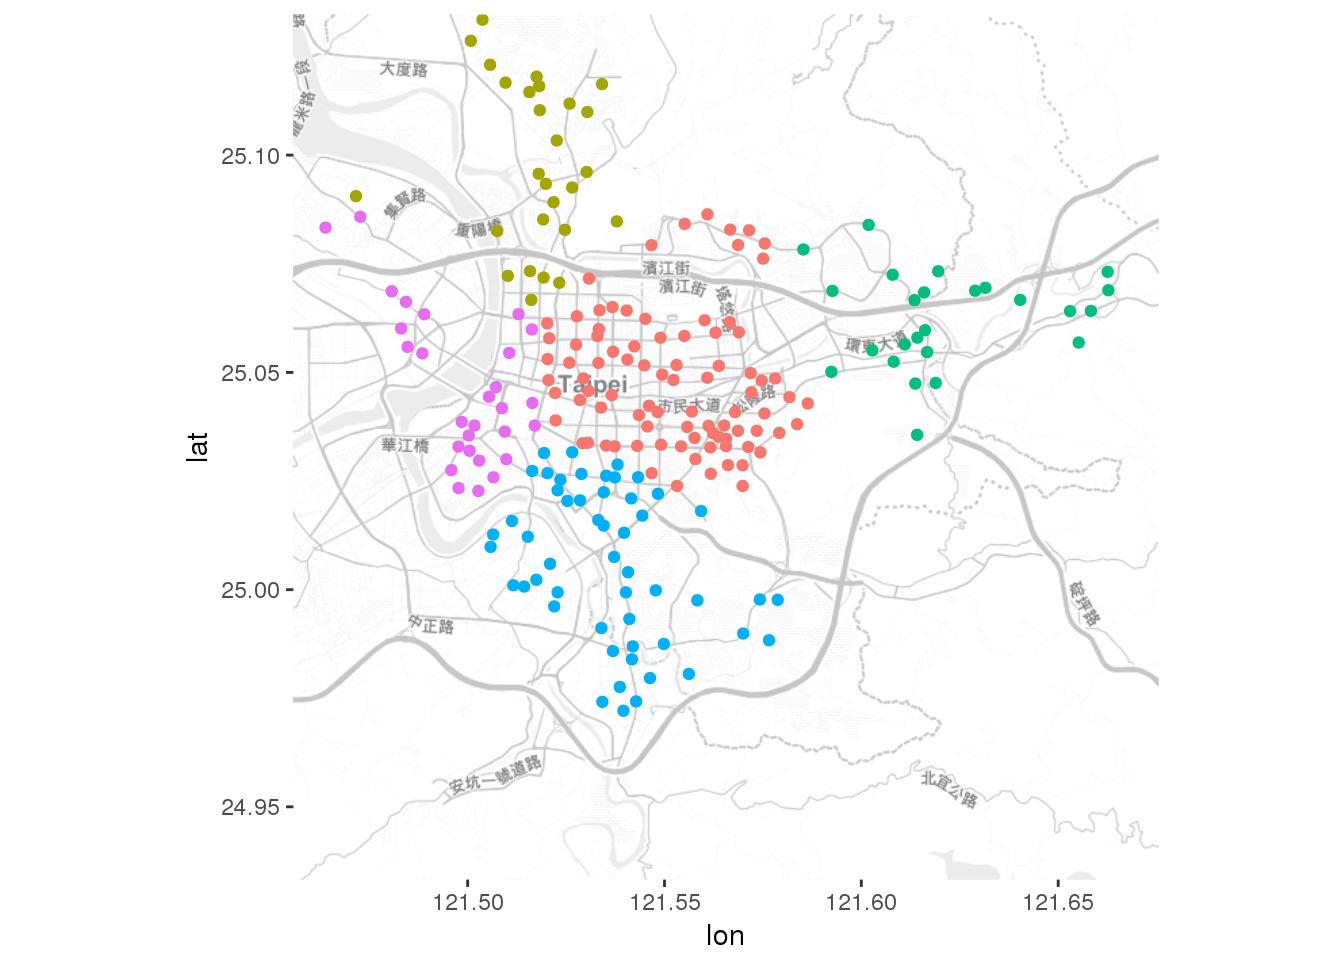
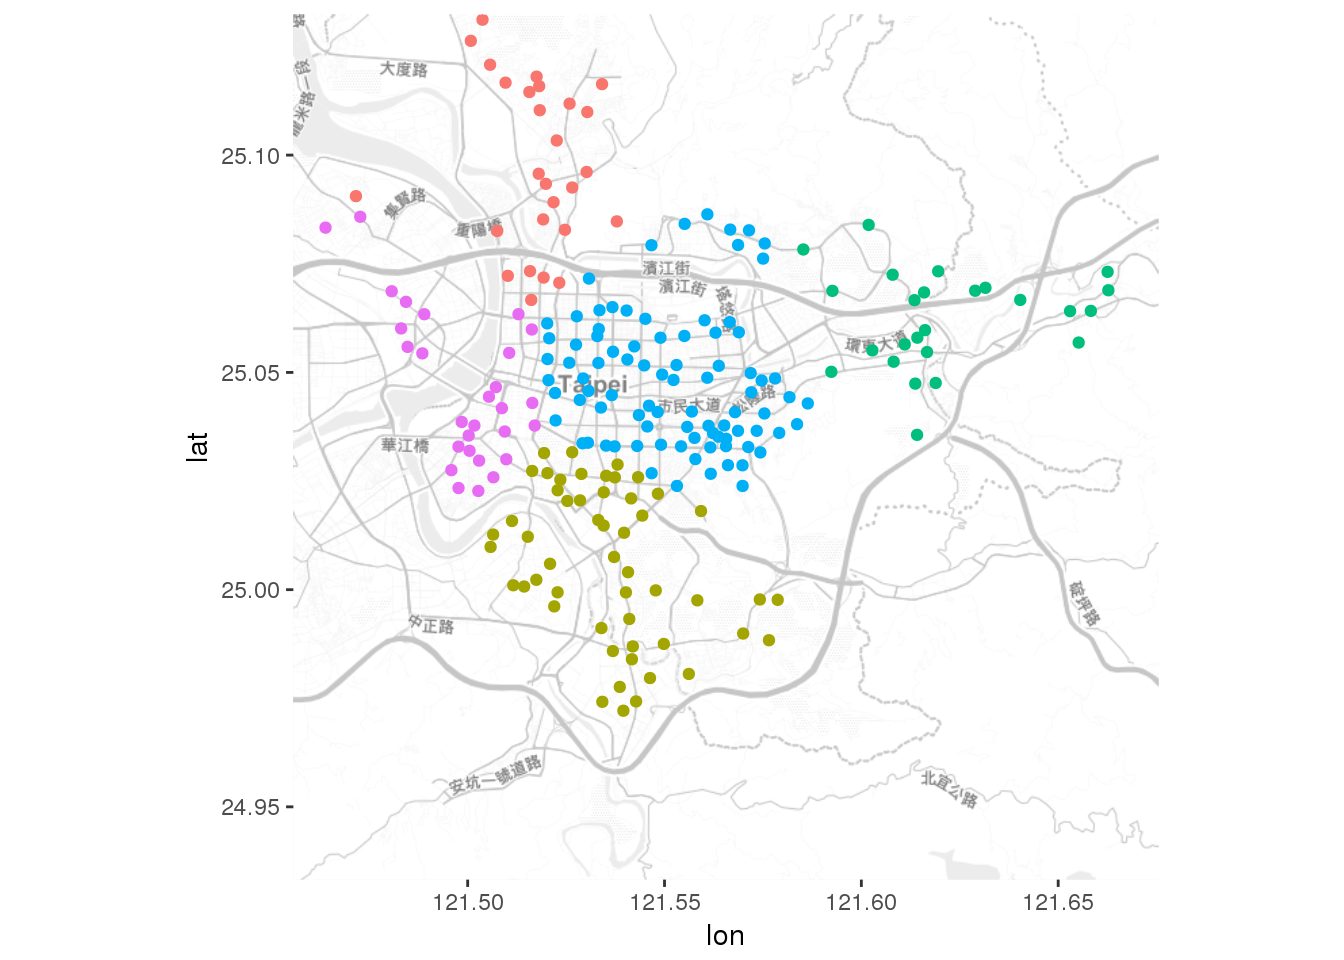
add Hypothesis.script and fix some typo error

diff --git a/_book/04-EDA.html b/_book/04-EDA.html
@@ -60,6 +60,8 @@ j=d.createElement(s),dl=l!='dataLayer'?'&l='+l:'';j.async=true;j.src=
 
 <meta name="google-site-verification" content="31axDkPIY8dHEU8wWjGoY71hZnVJIGAtWhtnVzV60Ns" />
 
+<script src="https://hypothes.is/embed.js" async></script>
+
 
 <style type="text/css">
 div.sourceCode { overflow-x: auto; }
@@ -472,8 +474,8 @@ gridExtra<span class="op">::</span><span class="kw">grid.arrange</span>(g1, g2, 
 </ul>
 <div class="sourceCode"><pre class="sourceCode r"><code class="sourceCode r">g1 &lt;-<span class="st"> </span><span class="kw">ggplot</span>(mtcars, <span class="kw">aes</span>(<span class="dt">x=</span>wt, <span class="dt">y=</span>mpg, <span class="dt">colour=</span>cyl)) <span class="op">+</span><span class="st"> </span><span class="kw">geom_point</span>()
 plotly<span class="op">::</span><span class="kw">ggplotly</span>(g1)</code></pre></div>
-<div id="htmlwidget-2392d900383af60d1c3a" style="width:672px;height:480px;" class="plotly html-widget"></div>
-<script type="application/json" data-for="htmlwidget-2392d900383af60d1c3a">{"x":{"data":[{"x":[2.62,2.875,2.32,3.215,3.44,3.46,3.57,3.19,3.15,3.44,3.44,4.07,3.73,3.78,5.25,5.424,5.345,2.2,1.615,1.835,2.465,3.52,3.435,3.84,3.845,1.935,2.14,1.513,3.17,2.77,3.57,2.78],"y":[21,21,22.8,21.4,18.7,18.1,14.3,24.4,22.8,19.2,17.8,16.4,17.3,15.2,10.4,10.4,14.7,32.4,30.4,33.9,21.5,15.5,15.2,13.3,19.2,27.3,26,30.4,15.8,19.7,15,21.4],"text":["wt: 2.62<br>mpg: 21<br>cyl: 6","wt: 2.88<br>mpg: 21<br>cyl: 6","wt: 2.32<br>mpg: 22.8<br>cyl: 4","wt: 3.21<br>mpg: 21.4<br>cyl: 6","wt: 3.44<br>mpg: 18.7<br>cyl: 8","wt: 3.46<br>mpg: 18.1<br>cyl: 6","wt: 3.57<br>mpg: 14.3<br>cyl: 8","wt: 3.19<br>mpg: 24.4<br>cyl: 4","wt: 3.15<br>mpg: 22.8<br>cyl: 4","wt: 3.44<br>mpg: 19.2<br>cyl: 6","wt: 3.44<br>mpg: 17.8<br>cyl: 6","wt: 4.07<br>mpg: 16.4<br>cyl: 8","wt: 3.73<br>mpg: 17.3<br>cyl: 8","wt: 3.78<br>mpg: 15.2<br>cyl: 8","wt: 5.25<br>mpg: 10.4<br>cyl: 8","wt: 5.42<br>mpg: 10.4<br>cyl: 8","wt: 5.34<br>mpg: 14.7<br>cyl: 8","wt: 2.2<br>mpg: 32.4<br>cyl: 4","wt: 1.62<br>mpg: 30.4<br>cyl: 4","wt: 1.84<br>mpg: 33.9<br>cyl: 4","wt: 2.46<br>mpg: 21.5<br>cyl: 4","wt: 3.52<br>mpg: 15.5<br>cyl: 8","wt: 3.44<br>mpg: 15.2<br>cyl: 8","wt: 3.84<br>mpg: 13.3<br>cyl: 8","wt: 3.85<br>mpg: 19.2<br>cyl: 8","wt: 1.94<br>mpg: 27.3<br>cyl: 4","wt: 2.14<br>mpg: 26<br>cyl: 4","wt: 1.51<br>mpg: 30.4<br>cyl: 4","wt: 3.17<br>mpg: 15.8<br>cyl: 8","wt: 2.77<br>mpg: 19.7<br>cyl: 6","wt: 3.57<br>mpg: 15<br>cyl: 8","wt: 2.78<br>mpg: 21.4<br>cyl: 4"],"key":null,"type":"scatter","mode":"markers","marker":{"autocolorscale":false,"color":["rgba(51,106,152,1)","rgba(51,106,152,1)","rgba(19,43,67,1)","rgba(51,106,152,1)","rgba(86,177,247,1)","rgba(51,106,152,1)","rgba(86,177,247,1)","rgba(19,43,67,1)","rgba(19,43,67,1)","rgba(51,106,152,1)","rgba(51,106,152,1)","rgba(86,177,247,1)","rgba(86,177,247,1)","rgba(86,177,247,1)","rgba(86,177,247,1)","rgba(86,177,247,1)","rgba(86,177,247,1)","rgba(19,43,67,1)","rgba(19,43,67,1)","rgba(19,43,67,1)","rgba(19,43,67,1)","rgba(86,177,247,1)","rgba(86,177,247,1)","rgba(86,177,247,1)","rgba(86,177,247,1)","rgba(19,43,67,1)","rgba(19,43,67,1)","rgba(19,43,67,1)","rgba(86,177,247,1)","rgba(51,106,152,1)","rgba(86,177,247,1)","rgba(19,43,67,1)"],"opacity":1,"size":5.66929133858268,"symbol":"circle","line":{"width":1.88976377952756,"color":["rgba(51,106,152,1)","rgba(51,106,152,1)","rgba(19,43,67,1)","rgba(51,106,152,1)","rgba(86,177,247,1)","rgba(51,106,152,1)","rgba(86,177,247,1)","rgba(19,43,67,1)","rgba(19,43,67,1)","rgba(51,106,152,1)","rgba(51,106,152,1)","rgba(86,177,247,1)","rgba(86,177,247,1)","rgba(86,177,247,1)","rgba(86,177,247,1)","rgba(86,177,247,1)","rgba(86,177,247,1)","rgba(19,43,67,1)","rgba(19,43,67,1)","rgba(19,43,67,1)","rgba(19,43,67,1)","rgba(86,177,247,1)","rgba(86,177,247,1)","rgba(86,177,247,1)","rgba(86,177,247,1)","rgba(19,43,67,1)","rgba(19,43,67,1)","rgba(19,43,67,1)","rgba(86,177,247,1)","rgba(51,106,152,1)","rgba(86,177,247,1)","rgba(19,43,67,1)"]}},"hoveron":"points","showlegend":false,"xaxis":"x","yaxis":"y","hoverinfo":"text","name":""},{"x":[1.31745,5.61955],"y":[9.225,35.075],"name":"99_d9dc1d8e218a3a6bb9dbd6fc7032b72e","type":"scatter","mode":"markers","opacity":0,"hoverinfo":"none","showlegend":false,"marker":{"color":[0,1],"colorscale":[[0,"#132B43"],[0.05,"#16314B"],[0.1,"#193753"],[0.15,"#1C3D5B"],[0.2,"#1F4364"],[0.25,"#22496C"],[0.3,"#265075"],[0.35,"#29567D"],[0.4,"#2C5D86"],[0.45,"#2F638F"],[0.5,"#336A98"],[0.55,"#3671A1"],[0.6,"#3A78AA"],[0.65,"#3D7FB4"],[0.7,"#4186BD"],[0.75,"#448DC6"],[0.8,"#4894D0"],[0.85,"#4B9BDA"],[0.9,"#4FA2E3"],[0.95,"#52AAED"],[1,"#56B1F7"]],"colorbar":{"bgcolor":"rgba(255,255,255,1)","bordercolor":"transparent","borderwidth":1.88976377952756,"thickness":23.04,"title":"cyl","titlefont":{"color":"rgba(0,0,0,1)","family":"","size":14.6118721461187},"tickmode":"array","ticktext":["4","5","6","7","8"],"tickvals":[0,0.25,0.5,0.75,1],"tickfont":{"color":"rgba(0,0,0,1)","family":"","size":11.689497716895},"ticklen":2,"len":0.5}},"xaxis":"x","yaxis":"y"}],"layout":{"margin":{"t":26.2283105022831,"r":7.30593607305936,"b":40.1826484018265,"l":37.2602739726027},"plot_bgcolor":"rgba(235,235,235,1)","paper_bgcolor":"rgba(255,255,255,1)","font":{"color":"rgba(0,0,0,1)","family":"","size":14.6118721461187},"xaxis":{"domain":[0,1],"type":"linear","autorange":false,"tickmode":"array","range":[1.31745,5.61955],"ticktext":["2","3","4","5"],"tickvals":[2,3,4,5],"ticks":"outside","tickcolor":"rgba(51,51,51,1)","ticklen":3.65296803652968,"tickwidth":0.66417600664176,"showticklabels":true,"tickfont":{"color":"rgba(77,77,77,1)","family":"","size":11.689497716895},"tickangle":-0,"showline":false,"linecolor":null,"linewidth":0,"showgrid":true,"gridcolor":"rgba(255,255,255,1)","gridwidth":0.66417600664176,"zeroline":false,"anchor":"y","title":"wt","titlefont":{"color":"rgba(0,0,0,1)","family":"","size":14.6118721461187},"hoverformat":".2f"},"yaxis":{"domain":[0,1],"type":"linear","autorange":false,"tickmode":"array","range":[9.225,35.075],"ticktext":["10","15","20","25","30","35"],"tickvals":[10,15,20,25,30,35],"ticks":"outside","tickcolor":"rgba(51,51,51,1)","ticklen":3.65296803652968,"tickwidth":0.66417600664176,"showticklabels":true,"tickfont":{"color":"rgba(77,77,77,1)","family":"","size":11.689497716895},"tickangle":-0,"showline":false,"linecolor":null,"linewidth":0,"showgrid":true,"gridcolor":"rgba(255,255,255,1)","gridwidth":0.66417600664176,"zeroline":false,"anchor":"x","title":"mpg","titlefont":{"color":"rgba(0,0,0,1)","family":"","size":14.6118721461187},"hoverformat":".2f"},"shapes":[{"type":"rect","fillcolor":null,"line":{"color":null,"width":0,"linetype":[]},"yref":"paper","xref":"paper","x0":0,"x1":1,"y0":0,"y1":1}],"showlegend":false,"legend":{"bgcolor":"rgba(255,255,255,1)","bordercolor":"transparent","borderwidth":1.88976377952756,"font":{"color":"rgba(0,0,0,1)","family":"","size":11.689497716895}},"hovermode":"closest"},"source":"A","config":{"modeBarButtonsToAdd":[{"name":"Collaborate","icon":{"width":1000,"ascent":500,"descent":-50,"path":"M487 375c7-10 9-23 5-36l-79-259c-3-12-11-23-22-31-11-8-22-12-35-12l-263 0c-15 0-29 5-43 15-13 10-23 23-28 37-5 13-5 25-1 37 0 0 0 3 1 7 1 5 1 8 1 11 0 2 0 4-1 6 0 3-1 5-1 6 1 2 2 4 3 6 1 2 2 4 4 6 2 3 4 5 5 7 5 7 9 16 13 26 4 10 7 19 9 26 0 2 0 5 0 9-1 4-1 6 0 8 0 2 2 5 4 8 3 3 5 5 5 7 4 6 8 15 12 26 4 11 7 19 7 26 1 1 0 4 0 9-1 4-1 7 0 8 1 2 3 5 6 8 4 4 6 6 6 7 4 5 8 13 13 24 4 11 7 20 7 28 1 1 0 4 0 7-1 3-1 6-1 7 0 2 1 4 3 6 1 1 3 4 5 6 2 3 3 5 5 6 1 2 3 5 4 9 2 3 3 7 5 10 1 3 2 6 4 10 2 4 4 7 6 9 2 3 4 5 7 7 3 2 7 3 11 3 3 0 8 0 13-1l0-1c7 2 12 2 14 2l218 0c14 0 25-5 32-16 8-10 10-23 6-37l-79-259c-7-22-13-37-20-43-7-7-19-10-37-10l-248 0c-5 0-9-2-11-5-2-3-2-7 0-12 4-13 18-20 41-20l264 0c5 0 10 2 16 5 5 3 8 6 10 11l85 282c2 5 2 10 2 17 7-3 13-7 17-13z m-304 0c-1-3-1-5 0-7 1-1 3-2 6-2l174 0c2 0 4 1 7 2 2 2 4 4 5 7l6 18c0 3 0 5-1 7-1 1-3 2-6 2l-173 0c-3 0-5-1-8-2-2-2-4-4-4-7z m-24-73c-1-3-1-5 0-7 2-2 3-2 6-2l174 0c2 0 5 0 7 2 3 2 4 4 5 7l6 18c1 2 0 5-1 6-1 2-3 3-5 3l-174 0c-3 0-5-1-7-3-3-1-4-4-5-6z"},"click":"function(gd) { \n        // is this being viewed in RStudio?\n        if (location.search == '?viewer_pane=1') {\n          alert('To learn about plotly for collaboration, visit:\\n https://cpsievert.github.io/plotly_book/plot-ly-for-collaboration.html');\n        } else {\n          window.open('https://cpsievert.github.io/plotly_book/plot-ly-for-collaboration.html', '_blank');\n        }\n      }"}],"modeBarButtonsToRemove":["sendDataToCloud"]},"base_url":"https://plot.ly"},"evals":["config.modeBarButtonsToAdd.0.click"],"jsHooks":[]}</script>
+<div id="htmlwidget-92d900383af60d1c3a24" style="width:672px;height:480px;" class="plotly html-widget"></div>
+<script type="application/json" data-for="htmlwidget-92d900383af60d1c3a24">{"x":{"data":[{"x":[2.62,2.875,2.32,3.215,3.44,3.46,3.57,3.19,3.15,3.44,3.44,4.07,3.73,3.78,5.25,5.424,5.345,2.2,1.615,1.835,2.465,3.52,3.435,3.84,3.845,1.935,2.14,1.513,3.17,2.77,3.57,2.78],"y":[21,21,22.8,21.4,18.7,18.1,14.3,24.4,22.8,19.2,17.8,16.4,17.3,15.2,10.4,10.4,14.7,32.4,30.4,33.9,21.5,15.5,15.2,13.3,19.2,27.3,26,30.4,15.8,19.7,15,21.4],"text":["wt: 2.62<br>mpg: 21<br>cyl: 6","wt: 2.88<br>mpg: 21<br>cyl: 6","wt: 2.32<br>mpg: 22.8<br>cyl: 4","wt: 3.21<br>mpg: 21.4<br>cyl: 6","wt: 3.44<br>mpg: 18.7<br>cyl: 8","wt: 3.46<br>mpg: 18.1<br>cyl: 6","wt: 3.57<br>mpg: 14.3<br>cyl: 8","wt: 3.19<br>mpg: 24.4<br>cyl: 4","wt: 3.15<br>mpg: 22.8<br>cyl: 4","wt: 3.44<br>mpg: 19.2<br>cyl: 6","wt: 3.44<br>mpg: 17.8<br>cyl: 6","wt: 4.07<br>mpg: 16.4<br>cyl: 8","wt: 3.73<br>mpg: 17.3<br>cyl: 8","wt: 3.78<br>mpg: 15.2<br>cyl: 8","wt: 5.25<br>mpg: 10.4<br>cyl: 8","wt: 5.42<br>mpg: 10.4<br>cyl: 8","wt: 5.34<br>mpg: 14.7<br>cyl: 8","wt: 2.2<br>mpg: 32.4<br>cyl: 4","wt: 1.62<br>mpg: 30.4<br>cyl: 4","wt: 1.84<br>mpg: 33.9<br>cyl: 4","wt: 2.46<br>mpg: 21.5<br>cyl: 4","wt: 3.52<br>mpg: 15.5<br>cyl: 8","wt: 3.44<br>mpg: 15.2<br>cyl: 8","wt: 3.84<br>mpg: 13.3<br>cyl: 8","wt: 3.85<br>mpg: 19.2<br>cyl: 8","wt: 1.94<br>mpg: 27.3<br>cyl: 4","wt: 2.14<br>mpg: 26<br>cyl: 4","wt: 1.51<br>mpg: 30.4<br>cyl: 4","wt: 3.17<br>mpg: 15.8<br>cyl: 8","wt: 2.77<br>mpg: 19.7<br>cyl: 6","wt: 3.57<br>mpg: 15<br>cyl: 8","wt: 2.78<br>mpg: 21.4<br>cyl: 4"],"key":null,"type":"scatter","mode":"markers","marker":{"autocolorscale":false,"color":["rgba(51,106,152,1)","rgba(51,106,152,1)","rgba(19,43,67,1)","rgba(51,106,152,1)","rgba(86,177,247,1)","rgba(51,106,152,1)","rgba(86,177,247,1)","rgba(19,43,67,1)","rgba(19,43,67,1)","rgba(51,106,152,1)","rgba(51,106,152,1)","rgba(86,177,247,1)","rgba(86,177,247,1)","rgba(86,177,247,1)","rgba(86,177,247,1)","rgba(86,177,247,1)","rgba(86,177,247,1)","rgba(19,43,67,1)","rgba(19,43,67,1)","rgba(19,43,67,1)","rgba(19,43,67,1)","rgba(86,177,247,1)","rgba(86,177,247,1)","rgba(86,177,247,1)","rgba(86,177,247,1)","rgba(19,43,67,1)","rgba(19,43,67,1)","rgba(19,43,67,1)","rgba(86,177,247,1)","rgba(51,106,152,1)","rgba(86,177,247,1)","rgba(19,43,67,1)"],"opacity":1,"size":5.66929133858268,"symbol":"circle","line":{"width":1.88976377952756,"color":["rgba(51,106,152,1)","rgba(51,106,152,1)","rgba(19,43,67,1)","rgba(51,106,152,1)","rgba(86,177,247,1)","rgba(51,106,152,1)","rgba(86,177,247,1)","rgba(19,43,67,1)","rgba(19,43,67,1)","rgba(51,106,152,1)","rgba(51,106,152,1)","rgba(86,177,247,1)","rgba(86,177,247,1)","rgba(86,177,247,1)","rgba(86,177,247,1)","rgba(86,177,247,1)","rgba(86,177,247,1)","rgba(19,43,67,1)","rgba(19,43,67,1)","rgba(19,43,67,1)","rgba(19,43,67,1)","rgba(86,177,247,1)","rgba(86,177,247,1)","rgba(86,177,247,1)","rgba(86,177,247,1)","rgba(19,43,67,1)","rgba(19,43,67,1)","rgba(19,43,67,1)","rgba(86,177,247,1)","rgba(51,106,152,1)","rgba(86,177,247,1)","rgba(19,43,67,1)"]}},"hoveron":"points","showlegend":false,"xaxis":"x","yaxis":"y","hoverinfo":"text","name":""},{"x":[1.31745,5.61955],"y":[9.225,35.075],"name":"99_d9dc1d8e218a3a6bb9dbd6fc7032b72e","type":"scatter","mode":"markers","opacity":0,"hoverinfo":"none","showlegend":false,"marker":{"color":[0,1],"colorscale":[[0,"#132B43"],[0.05,"#16314B"],[0.1,"#193753"],[0.15,"#1C3D5B"],[0.2,"#1F4364"],[0.25,"#22496C"],[0.3,"#265075"],[0.35,"#29567D"],[0.4,"#2C5D86"],[0.45,"#2F638F"],[0.5,"#336A98"],[0.55,"#3671A1"],[0.6,"#3A78AA"],[0.65,"#3D7FB4"],[0.7,"#4186BD"],[0.75,"#448DC6"],[0.8,"#4894D0"],[0.85,"#4B9BDA"],[0.9,"#4FA2E3"],[0.95,"#52AAED"],[1,"#56B1F7"]],"colorbar":{"bgcolor":"rgba(255,255,255,1)","bordercolor":"transparent","borderwidth":1.88976377952756,"thickness":23.04,"title":"cyl","titlefont":{"color":"rgba(0,0,0,1)","family":"","size":14.6118721461187},"tickmode":"array","ticktext":["4","5","6","7","8"],"tickvals":[0,0.25,0.5,0.75,1],"tickfont":{"color":"rgba(0,0,0,1)","family":"","size":11.689497716895},"ticklen":2,"len":0.5}},"xaxis":"x","yaxis":"y"}],"layout":{"margin":{"t":26.2283105022831,"r":7.30593607305936,"b":40.1826484018265,"l":37.2602739726027},"plot_bgcolor":"rgba(235,235,235,1)","paper_bgcolor":"rgba(255,255,255,1)","font":{"color":"rgba(0,0,0,1)","family":"","size":14.6118721461187},"xaxis":{"domain":[0,1],"type":"linear","autorange":false,"tickmode":"array","range":[1.31745,5.61955],"ticktext":["2","3","4","5"],"tickvals":[2,3,4,5],"ticks":"outside","tickcolor":"rgba(51,51,51,1)","ticklen":3.65296803652968,"tickwidth":0.66417600664176,"showticklabels":true,"tickfont":{"color":"rgba(77,77,77,1)","family":"","size":11.689497716895},"tickangle":-0,"showline":false,"linecolor":null,"linewidth":0,"showgrid":true,"gridcolor":"rgba(255,255,255,1)","gridwidth":0.66417600664176,"zeroline":false,"anchor":"y","title":"wt","titlefont":{"color":"rgba(0,0,0,1)","family":"","size":14.6118721461187},"hoverformat":".2f"},"yaxis":{"domain":[0,1],"type":"linear","autorange":false,"tickmode":"array","range":[9.225,35.075],"ticktext":["10","15","20","25","30","35"],"tickvals":[10,15,20,25,30,35],"ticks":"outside","tickcolor":"rgba(51,51,51,1)","ticklen":3.65296803652968,"tickwidth":0.66417600664176,"showticklabels":true,"tickfont":{"color":"rgba(77,77,77,1)","family":"","size":11.689497716895},"tickangle":-0,"showline":false,"linecolor":null,"linewidth":0,"showgrid":true,"gridcolor":"rgba(255,255,255,1)","gridwidth":0.66417600664176,"zeroline":false,"anchor":"x","title":"mpg","titlefont":{"color":"rgba(0,0,0,1)","family":"","size":14.6118721461187},"hoverformat":".2f"},"shapes":[{"type":"rect","fillcolor":null,"line":{"color":null,"width":0,"linetype":[]},"yref":"paper","xref":"paper","x0":0,"x1":1,"y0":0,"y1":1}],"showlegend":false,"legend":{"bgcolor":"rgba(255,255,255,1)","bordercolor":"transparent","borderwidth":1.88976377952756,"font":{"color":"rgba(0,0,0,1)","family":"","size":11.689497716895}},"hovermode":"closest"},"source":"A","config":{"modeBarButtonsToAdd":[{"name":"Collaborate","icon":{"width":1000,"ascent":500,"descent":-50,"path":"M487 375c7-10 9-23 5-36l-79-259c-3-12-11-23-22-31-11-8-22-12-35-12l-263 0c-15 0-29 5-43 15-13 10-23 23-28 37-5 13-5 25-1 37 0 0 0 3 1 7 1 5 1 8 1 11 0 2 0 4-1 6 0 3-1 5-1 6 1 2 2 4 3 6 1 2 2 4 4 6 2 3 4 5 5 7 5 7 9 16 13 26 4 10 7 19 9 26 0 2 0 5 0 9-1 4-1 6 0 8 0 2 2 5 4 8 3 3 5 5 5 7 4 6 8 15 12 26 4 11 7 19 7 26 1 1 0 4 0 9-1 4-1 7 0 8 1 2 3 5 6 8 4 4 6 6 6 7 4 5 8 13 13 24 4 11 7 20 7 28 1 1 0 4 0 7-1 3-1 6-1 7 0 2 1 4 3 6 1 1 3 4 5 6 2 3 3 5 5 6 1 2 3 5 4 9 2 3 3 7 5 10 1 3 2 6 4 10 2 4 4 7 6 9 2 3 4 5 7 7 3 2 7 3 11 3 3 0 8 0 13-1l0-1c7 2 12 2 14 2l218 0c14 0 25-5 32-16 8-10 10-23 6-37l-79-259c-7-22-13-37-20-43-7-7-19-10-37-10l-248 0c-5 0-9-2-11-5-2-3-2-7 0-12 4-13 18-20 41-20l264 0c5 0 10 2 16 5 5 3 8 6 10 11l85 282c2 5 2 10 2 17 7-3 13-7 17-13z m-304 0c-1-3-1-5 0-7 1-1 3-2 6-2l174 0c2 0 4 1 7 2 2 2 4 4 5 7l6 18c0 3 0 5-1 7-1 1-3 2-6 2l-173 0c-3 0-5-1-8-2-2-2-4-4-4-7z m-24-73c-1-3-1-5 0-7 2-2 3-2 6-2l174 0c2 0 5 0 7 2 3 2 4 4 5 7l6 18c1 2 0 5-1 6-1 2-3 3-5 3l-174 0c-3 0-5-1-7-3-3-1-4-4-5-6z"},"click":"function(gd) { \n        // is this being viewed in RStudio?\n        if (location.search == '?viewer_pane=1') {\n          alert('To learn about plotly for collaboration, visit:\\n https://cpsievert.github.io/plotly_book/plot-ly-for-collaboration.html');\n        } else {\n          window.open('https://cpsievert.github.io/plotly_book/plot-ly-for-collaboration.html', '_blank');\n        }\n      }"}],"modeBarButtonsToRemove":["sendDataToCloud"]},"base_url":"https://plot.ly"},"evals":["config.modeBarButtonsToAdd.0.click"],"jsHooks":[]}</script>
 
 </div>
 </div>

diff --git a/_book/09-multivariate.html b/_book/09-multivariate.html
@@ -60,6 +60,8 @@ j=d.createElement(s),dl=l!='dataLayer'?'&l='+l:'';j.async=true;j.src=
 
 <meta name="google-site-verification" content="31axDkPIY8dHEU8wWjGoY71hZnVJIGAtWhtnVzV60Ns" />
 
+<script src="https://hypothes.is/embed.js" async></script>
+
 
 <style type="text/css">
 div.sourceCode { overflow-x: auto; }
@@ -453,24 +455,24 @@ p1</code></pre></div>
 <div class="sourceCode"><pre class="sourceCode r"><code class="sourceCode r"><span class="co"># K-Means </span>
 myCluster &lt;-<span class="st"> </span><span class="kw">kmeans</span>(dat[, <span class="dv">3</span><span class="op">:</span><span class="dv">4</span>], <span class="dt">centers =</span> <span class="dv">5</span>, <span class="dt">nstart =</span> <span class="dv">20</span>)
 myCluster</code></pre></div>
-<pre><code>K-means clustering with 5 clusters of sizes 87, 31, 25, 52, 36
+<pre><code>K-means clustering with 5 clusters of sizes 31, 52, 25, 87, 36
 
 Cluster means:
        lat      lng
-1 25.04815 121.5522
-2 25.10282 121.5148
+1 25.10282 121.5148
+2 25.00595 121.5361
 3 25.06245 121.6215
-4 25.00595 121.5361
+4 25.04815 121.5522
 5 25.04375 121.4848
 
 Clustering vector:
-  [1] 1 1 1 1 1 1 1 1 1 1 1 1 1 1 1 1 1 1 4 1 1 3 1 1 3 3 1 4 4 4 1 1 1 1 4 1 4 3 1 3 1 3 3 4 3 1 3 1 1 1 1 1 4 1 1 4 1 1 1 4 4 1 5 5 4 5 5 4 1 1 1 2
- [73] 1 1 1 1 2 1 5 4 5 1 5 1 1 1 1 4 5 2 5 1 4 5 1 2 4 1 1 1 4 5 4 5 5 5 2 1 1 1 2 1 2 1 2 2 2 1 5 1 1 2 2 5 4 3 1 3 4 1 4 2 2 2 2 2 1 5 5 4 4 4 4 2
-[145] 2 2 2 2 1 4 2 5 2 1 3 1 3 1 1 2 1 4 2 2 4 2 4 5 1 1 1 1 1 1 2 3 4 2 1 4 3 3 3 4 4 3 5 5 5 3 3 3 5 5 5 4 2 5 5 5 3 4 4 4 4 4 3 5 5 5 4 5 4 4 4 4
-[217] 4 4 4 5 1 4 4 1 1 3 3 5 4 4 5
+  [1] 4 4 4 4 4 4 4 4 4 4 4 4 4 4 4 4 4 4 2 4 4 3 4 4 3 3 4 2 2 2 4 4 4 4 2 4 2 3 4 3 4 3 3 2 3 4 3 4 4 4 4 4 2 4 4 2 4 4 4 2 2 4 5 5 2 5 5 2 4 4 4 1
+ [73] 4 4 4 4 1 4 5 2 5 4 5 4 4 4 4 2 5 1 5 4 2 5 4 1 2 4 4 4 2 5 2 5 5 5 1 4 4 4 1 4 1 4 1 1 1 4 5 4 4 1 1 5 2 3 4 3 2 4 2 1 1 1 1 1 4 5 5 2 2 2 2 1
+[145] 1 1 1 1 4 2 1 5 1 4 3 4 3 4 4 1 4 2 1 1 2 1 2 5 4 4 4 4 4 4 1 3 2 1 4 2 3 3 3 2 2 3 5 5 5 3 3 3 5 5 5 2 1 5 5 5 3 2 2 2 2 2 3 5 5 5 2 5 2 2 2 2
+[217] 2 2 2 5 4 2 2 4 4 3 3 5 2 2 5
 
 Within cluster sum of squares by cluster:
-[1] 0.04759593 0.01996608 0.01482504 0.03011591 0.04103994
+[1] 0.01996608 0.03011591 0.01482504 0.04759593 0.04103994
  (between_SS / total_SS =  76.5 %)
 
 Available components:

diff --git a/_book/03-ETL.html b/_book/03-ETL.html
@@ -60,6 +60,8 @@ j=d.createElement(s),dl=l!='dataLayer'?'&l='+l:'';j.async=true;j.src=
 
 <meta name="google-site-verification" content="31axDkPIY8dHEU8wWjGoY71hZnVJIGAtWhtnVzV60Ns" />
 
+<script src="https://hypothes.is/embed.js" async></script>
+
 
 <style type="text/css">
 div.sourceCode { overflow-x: auto; }
@@ -1198,39 +1200,15 @@ ubike <span class="op">%&gt;%</span>
 </thead>
 <tbody>
 <tr class="odd">
-<td align="left">白雲國小</td>
-<td align="right">2.094692</td>
+<td align="left">中和公園</td>
+<td align="right">NaN</td>
 </tr>
 <tr class="even">
-<td align="left">汐止區公所</td>
-<td align="right">2.281363</td>
-</tr>
-<tr class="odd">
-<td align="left">汐科火車站(北)</td>
-<td align="right">2.283358</td>
-</tr>
-<tr class="even">
-<td align="left">汐止火車站</td>
-<td align="right">2.393386</td>
-</tr>
-<tr class="odd">
-<td align="left">國泰綜合醫院</td>
-<td align="right">2.472844</td>
-</tr>
-<tr class="even">
-<td align="left">樟樹國小</td>
-<td align="right">2.509820</td>
-</tr>
-<tr class="odd">
-<td align="left">金龍國小</td>
-<td align="right">2.718062</td>
-</tr>
-<tr class="even">
-<td align="left">文化白雲公園</td>
+<td align="left">捷運永安市場站</td>
 <td align="right">NaN</td>
 </tr>
 <tr class="odd">
-<td align="left">金龍公園</td>
+<td align="left">秀山國小</td>
 <td align="right">NaN</td>
 </tr>
 </tbody>

diff --git a/_book/01-intro.html b/_book/01-intro.html
@@ -60,6 +60,8 @@ j=d.createElement(s),dl=l!='dataLayer'?'&l='+l:'';j.async=true;j.src=
 
 <meta name="google-site-verification" content="31axDkPIY8dHEU8wWjGoY71hZnVJIGAtWhtnVzV60Ns" />
 
+<script src="https://hypothes.is/embed.js" async></script>
+
 
 <style type="text/css">
 div.sourceCode { overflow-x: auto; }

diff --git a/_book/02-basic.html b/_book/02-basic.html
@@ -60,6 +60,8 @@ j=d.createElement(s),dl=l!='dataLayer'?'&l='+l:'';j.async=true;j.src=
 
 <meta name="google-site-verification" content="31axDkPIY8dHEU8wWjGoY71hZnVJIGAtWhtnVzV60Ns" />
 
+<script src="https://hypothes.is/embed.js" async></script>
+
 
 <style type="text/css">
 div.sourceCode { overflow-x: auto; }

diff --git a/_book/05-reporting.html b/_book/05-reporting.html
@@ -60,6 +60,8 @@ j=d.createElement(s),dl=l!='dataLayer'?'&l='+l:'';j.async=true;j.src=
 
 <meta name="google-site-verification" content="31axDkPIY8dHEU8wWjGoY71hZnVJIGAtWhtnVzV60Ns" />
 
+<script src="https://hypothes.is/embed.js" async></script>
+
 
 <style type="text/css">
 div.sourceCode { overflow-x: auto; }

diff --git a/_book/06-groceries.html b/_book/06-groceries.html
@@ -60,6 +60,8 @@ j=d.createElement(s),dl=l!='dataLayer'?'&l='+l:'';j.async=true;j.src=
 
 <meta name="google-site-verification" content="31axDkPIY8dHEU8wWjGoY71hZnVJIGAtWhtnVzV60Ns" />
 
+<script src="https://hypothes.is/embed.js" async></script>
+
 
 <style type="text/css">
 div.sourceCode { overflow-x: auto; }

diff --git a/_book/07-DBI.html b/_book/07-DBI.html
@@ -60,6 +60,8 @@ j=d.createElement(s),dl=l!='dataLayer'?'&l='+l:'';j.async=true;j.src=
 
 <meta name="google-site-verification" content="31axDkPIY8dHEU8wWjGoY71hZnVJIGAtWhtnVzV60Ns" />
 
+<script src="https://hypothes.is/embed.js" async></script>
+
 
 <style type="text/css">
 div.sourceCode { overflow-x: auto; }

diff --git a/_book/08-elementaryStat.html b/_book/08-elementaryStat.html
@@ -60,6 +60,8 @@ j=d.createElement(s),dl=l!='dataLayer'?'&l='+l:'';j.async=true;j.src=
 
 <meta name="google-site-verification" content="31axDkPIY8dHEU8wWjGoY71hZnVJIGAtWhtnVzV60Ns" />
 
+<script src="https://hypothes.is/embed.js" async></script>
+
 
 <style type="text/css">
 div.sourceCode { overflow-x: auto; }

diff --git a/_book/99-release.html b/_book/99-release.html
@@ -60,6 +60,8 @@ j=d.createElement(s),dl=l!='dataLayer'?'&l='+l:'';j.async=true;j.src=
 
 <meta name="google-site-verification" content="31axDkPIY8dHEU8wWjGoY71hZnVJIGAtWhtnVzV60Ns" />
 
+<script src="https://hypothes.is/embed.js" async></script>
+
 
 <style type="text/css">
 div.sourceCode { overflow-x: auto; }

diff --git a/_book/index.html b/_book/index.html
@@ -60,6 +60,8 @@ j=d.createElement(s),dl=l!='dataLayer'?'&l='+l:'';j.async=true;j.src=
 
 <meta name="google-site-verification" content="31axDkPIY8dHEU8wWjGoY71hZnVJIGAtWhtnVzV60Ns" />
 
+<script src="https://hypothes.is/embed.js" async></script>
+
 
 <style type="text/css">
 div.sourceCode { overflow-x: auto; }

diff --git a/in_header.html b/in_header.html
@@ -7,3 +7,5 @@ j=d.createElement(s),dl=l!='dataLayer'?'&l='+l:'';j.async=true;j.src=
 <!-- End Google Tag Manager -->
 
 <meta name="google-site-verification" content="31axDkPIY8dHEU8wWjGoY71hZnVJIGAtWhtnVzV60Ns" />
+
+<script src="https://hypothes.is/embed.js" async></script>
